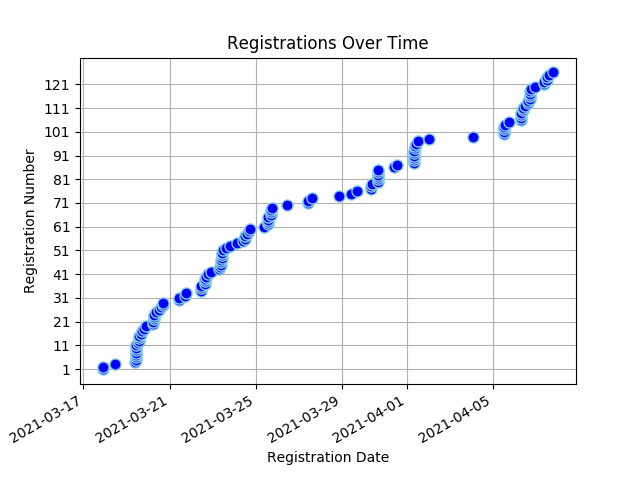
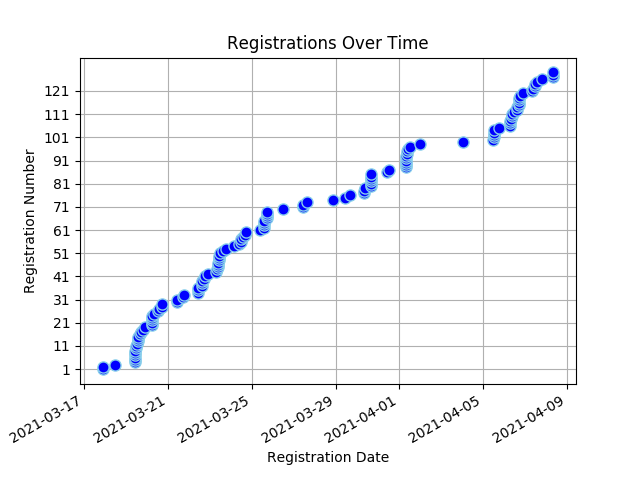
Registree stats backup on Thu 08 Apr 2021 08:45:47 SAST

diff --git a/content/registrees/_index.md b/content/registrees/_index.md
@@ -3,11 +3,11 @@ title: Registration Stats
 draft: false
 ---
 
-<ul><li><strong>Number of Registrees</strong>: 126</li>
+<ul><li><strong>Number of Registrees</strong>: 129</li>
 
-<li><strong>Number of Clubs</strong>: 46</li>
+<li><strong>Number of Clubs</strong>: 47</li>
 
-<li><strong>Club With Most Attendees</strong>: Windhoek (12 registrees)</li>
+<li><strong>Club With Most Attendees</strong>: Windhoek (13 registrees)</li>
 </ul><h2>Registrees</h2>
 
 <script type="text/javascript" src="https://ajax.googleapis.com/ajax/libs/jquery/3.4.1/jquery.min.js"></script>
@@ -33,6 +33,6 @@ draft: false
         </tr>
     </thead>
     <tbody>
-<tr><td>Natalie Abrahams</td><td>Cape Town</td><td>410W</td></tr><tr><td>Linda Anderson</td><td>George</td><td>410W</td></tr><tr><td>Linda Baumgarten</td><td>Sea Point</td><td>410W</td></tr><tr><td>Ulrike Behrens</td><td>Windhoek</td><td>410W</td></tr><tr><td>Valencia Beukes-Williams</td><td>Kuilsriver</td><td>410W</td></tr><tr><td>JOSE BRAGA BORGES</td><td>Malmesbury</td><td>410W</td></tr><tr><td>Paul Brauteseth</td><td>Port Shepstone</td><td>410E</td></tr><tr><td>Nelle Buhrmann</td><td>Sea Point</td><td>410W</td></tr><tr><td>Herman Cadman</td><td>Stellenbosch</td><td>410W</td></tr><tr><td>Linda Ann Cannone</td><td>Fish Hoek</td><td>410W</td></tr><tr><td>Sue Charles</td><td>Tokai</td><td>410W</td></tr><tr><td>Perry Chetty</td><td>East Coast</td><td>410E</td></tr><tr><td>Esme Cornelius</td><td>Kuilsriver</td><td>410W</td></tr><tr><td>Sharon Cottle</td><td>Groote Schuur</td><td>410W</td></tr><tr><td>Peter Daniel</td><td>Gordons Bay</td><td>410W</td></tr><tr><td>Norma Daniel</td><td>Gordons Bay</td><td>410W</td></tr><tr><td>Engela de Kock</td><td>Swellendam</td><td>410W</td></tr><tr><td>Francois de Kock</td><td>Swellendam</td><td>410W</td></tr><tr><td>ANDRE DE VILLIERS</td><td>Malgas</td><td>410W</td></tr><tr><td>Peggy Du Plooy</td><td>Krugersdorp</td><td>410E</td></tr><tr><td>Ivan Du Plooy</td><td>Krugersdorp</td><td>410E</td></tr><tr><td>Desiree du Toit</td><td>Ramsgate</td><td>410E</td></tr><tr><td>Natalie Etridge</td><td>Sedgefield</td><td>410W</td></tr><tr><td>AIDAN Ewers</td><td>Newlands</td><td>410W</td></tr><tr><td>Roger Fahrbach</td><td>Windhoek</td><td>410W</td></tr><tr><td>Beate Fahrbach</td><td>Windhoek</td><td>410W</td></tr><tr><td>Charles Flanagan</td><td>Tokai</td><td>410W</td></tr><tr><td>Jules Flanagan</td><td>Tokai</td><td>410W</td></tr><tr><td>Martin Froise</td><td>Letaba Tzaneen</td><td>410E</td></tr><tr><td>Valerie Graham</td><td>Nelspruit</td><td>410E</td></tr><tr><td>Mike Graham</td><td>Nelspruit</td><td>410E</td></tr><tr><td>Viv Grater</td><td>Sedgefield</td><td>410W</td></tr><tr><td>Mattheus Groves</td><td>Sedgefield</td><td>410W</td></tr><tr><td>Barbara Haywood</td><td>Eden</td><td>410W</td></tr><tr><td>Mike Heathcote</td><td>Port Shepstone</td><td>410E</td></tr><tr><td>Dorothy Hess</td><td>Kuilsriver</td><td>410W</td></tr><tr><td>Wendy Higgins</td><td>Wilro Park</td><td>410E</td></tr><tr><td>Jacqui Hocking</td><td>Midrand</td><td>410E</td></tr><tr><td>Cliff Hocking</td><td>Midrand</td><td>410E</td></tr><tr><td>Liz Houston</td><td>Table View</td><td>410W</td></tr><tr><td>John Houston</td><td>Table View</td><td>410W</td></tr><tr><td>Dawid Jacobs</td><td>Durbanville</td><td>410W</td></tr><tr><td>Jean Jacobs</td><td>Mitchells Plain</td><td>410W</td></tr><tr><td>WOLSLEY Jacobson</td><td>Cape Town</td><td>410W</td></tr><tr><td>Grant Jonathan</td><td>Gordons Bay</td><td>410W</td></tr><tr><td>Jerome Kern</td><td>Groote Schuur</td><td>410W</td></tr><tr><td>Ian King</td><td>Alberton</td><td>410E</td></tr><tr><td>Muya Koloko</td><td>Durbanville</td><td>410W</td></tr><tr><td>Zwaai Kruger</td><td>Sedgefield</td><td>410W</td></tr><tr><td>Bevil Lakay</td><td>Mitchells Plain</td><td>410W</td></tr><tr><td>Paula Lang</td><td>Gordons Bay</td><td>410W</td></tr><tr><td>Jimmy Lang</td><td>Gordons Bay</td><td>410W</td></tr><tr><td>Heather Lee</td><td>Cape Of Good Hope</td><td>410W</td></tr><tr><td>Zarina Luck</td><td>Newcastle</td><td>410E</td></tr><tr><td>Sharon Mangwende</td><td>Cape Town</td><td>410W</td></tr><tr><td>Beaulieu Mare</td><td>Benoni Lakes</td><td>410E</td></tr><tr><td>Jean Masson</td><td>Port Shepstone</td><td>410E</td></tr><tr><td>LANCE MAYTHAM</td><td>Swellendam</td><td>410W</td></tr><tr><td>ROSEMARIE MAYTHAM</td><td>Swellendam</td><td>410W</td></tr><tr><td>David Mccullough</td><td>Pretoria South</td><td>410E</td></tr><tr><td>Alec McKerrow</td><td>Port Alfred</td><td>410E</td></tr><tr><td>Mark Meltzer</td><td>The Wilds</td><td>410E</td></tr><tr><td>Denis Meyer</td><td>Port Shepstone</td><td>410E</td></tr><tr><td>Roy Michas</td><td>Midrand</td><td>410E</td></tr><tr><td>Dawn Michas</td><td>Midrand</td><td>410E</td></tr><tr><td>BERNICE MILLS</td><td>Centurion</td><td>410E</td></tr><tr><td>Patrick Mills</td><td>Centurion</td><td>410E</td></tr><tr><td>Cherie Milosevich</td><td>Milnerton</td><td>410W</td></tr><tr><td>Virginia Mkhize</td><td>Cape Town</td><td>410W</td></tr><tr><td>Frauke E. Moeller</td><td>Windhoek</td><td>410W</td></tr><tr><td>Bernadine Moses</td><td>Cape Town</td><td>410W</td></tr><tr><td>Pieter Nel</td><td>George</td><td>410W</td></tr><tr><td>Tillie Nel</td><td>Eden</td><td>410W</td></tr><tr><td>Mike Newlands</td><td>Port Alfred</td><td>410E</td></tr><tr><td>Mike Newlands</td><td>Port Alfred</td><td>410E</td></tr><tr><td>Debra Olivier</td><td>Sedgefield</td><td>410W</td></tr><tr><td>Sundru Pillay</td><td>Durbanville</td><td>410W</td></tr><tr><td>BRIAN PORTEOUS</td><td>Hibberdene</td><td>410E</td></tr><tr><td>Hugo Reniers</td><td>Nelspruit</td><td>410E</td></tr><tr><td>Mark Rossouw</td><td>Tokai</td><td>410W</td></tr><tr><td>Irene Rugheimer</td><td>Bedfordview</td><td>410E</td></tr><tr><td>Ingrid Russell</td><td>Fish Hoek</td><td>410W</td></tr><tr><td>Sharon Sampie</td><td>Bergvliet</td><td>410W</td></tr><tr><td>Frank Schatz</td><td>Windhoek</td><td>410W</td></tr><tr><td>Vera Schatz</td><td>Windhoek</td><td>410W</td></tr><tr><td>Francis Searle</td><td>Kouga</td><td>410E</td></tr><tr><td>Gloria Searle</td><td>Kouga</td><td>410E</td></tr><tr><td>Ami Sell</td><td>Windhoek</td><td>410W</td></tr><tr><td>Beryl Simpson</td><td>Cape Town</td><td>410W</td></tr><tr><td>Kenlis Sircoulomb</td><td>Windhoek</td><td>410W</td></tr><tr><td>Holger Sircoulomb</td><td>Windhoek</td><td>410W</td></tr><tr><td>Hennie Smeer</td><td>Windhoek</td><td>410W</td></tr><tr><td>Sue Smit</td><td>Centurion</td><td>410E</td></tr><tr><td>Herman Smit</td><td>Swellendam</td><td>410W</td></tr><tr><td>Jeff Smith</td><td>Port Shepstone</td><td>410E</td></tr><tr><td>LYN SNYMAN</td><td>Deep South</td><td>410W</td></tr><tr><td>Diana Sochen</td><td>Sea Point</td><td>410W</td></tr><tr><td>Max Stander</td><td>Port Alfred</td><td>410E</td></tr><tr><td>Ashley Stander</td><td>Krugersdorp</td><td>410E</td></tr><tr><td>Brett Jason Stander</td><td>Krugersdorp</td><td>410E</td></tr><tr><td>RORY stier</td><td>Deep South</td><td>410W</td></tr><tr><td>Patrick Strauss</td><td>Kuilsriver</td><td>410W</td></tr><tr><td>Lauryn Talbot</td><td>Benoni Lakes</td><td>410E</td></tr><tr><td>Diane Townsend</td><td>Benoni Lakes</td><td>410E</td></tr><tr><td>Diane Townsend</td><td>Benoni Lakes</td><td>410E</td></tr><tr><td>Alistair Tuckett</td><td>Roodepoort Clearwater Cyber</td><td>410E</td></tr><tr><td>Carl van Blerk</td><td>Eden</td><td>410W</td></tr><tr><td>HILARY LISE VAN BREDA</td><td>Cape Town</td><td>410W</td></tr><tr><td>Marina Van de Merwe</td><td>Malmesbury</td><td>410W</td></tr><tr><td>Sydney van Heerden</td><td>Wilro Park</td><td>410E</td></tr><tr><td>Sandy van Heerden</td><td>Wilro Park</td><td>410E</td></tr><tr><td>Neville Van Rensburg</td><td>Moorreesburg</td><td>410W</td></tr><tr><td>Johan van Rensburg</td><td>Windhoek</td><td>410W</td></tr><tr><td>Anne van Rensburg</td><td>Windhoek</td><td>410W</td></tr><tr><td>Jeannie van Wulven</td><td>Tygerberg Hills</td><td>410W</td></tr><tr><td>Alan van Wulven</td><td>Tygerberg Hills</td><td>410W</td></tr><tr><td>Deon van Wulven</td><td>Tygerberg Hills</td><td>410W</td></tr><tr><td>Kim van Wyk</td><td>North Durban</td><td>410E</td></tr><tr><td>Edith Van Wyk-Nelson</td><td>Kuilsriver</td><td>410W</td></tr><tr><td>Brian von der Decken</td><td>King William's Town</td><td>410E</td></tr><tr><td>Rinette Von Mollendorf</td><td>Durbanville</td><td>410W</td></tr><tr><td>Rochelle Vorster</td><td>Sedgefield</td><td>410W</td></tr><tr><td>Alastair Warman</td><td>Port Shepstone</td><td>410E</td></tr><tr><td>Allan Watson</td><td>Sea Point</td><td>410W</td></tr><tr><td>Neville Williamson</td><td>Port Alfred</td><td>410E</td></tr><tr><td>Judy Young</td><td>Durbanville</td><td>410W</td></tr>
+<tr><td>Natalie Abrahams</td><td>Cape Town</td><td>410W</td></tr><tr><td>Linda Anderson</td><td>George</td><td>410W</td></tr><tr><td>Linda Baumgarten</td><td>Sea Point</td><td>410W</td></tr><tr><td>Ulrike Behrens</td><td>Windhoek</td><td>410W</td></tr><tr><td>Valencia Beukes-Williams</td><td>Kuilsriver</td><td>410W</td></tr><tr><td>JOSE BRAGA BORGES</td><td>Malmesbury</td><td>410W</td></tr><tr><td>Paul Brauteseth</td><td>Port Shepstone</td><td>410E</td></tr><tr><td>Nelle Buhrmann</td><td>Sea Point</td><td>410W</td></tr><tr><td>Herman Cadman</td><td>Stellenbosch</td><td>410W</td></tr><tr><td>Linda Ann Cannone</td><td>Fish Hoek</td><td>410W</td></tr><tr><td>Sue Charles</td><td>Tokai</td><td>410W</td></tr><tr><td>Perry Chetty</td><td>East Coast</td><td>410E</td></tr><tr><td>Delaney Yeltsin Cloete</td><td>Eden</td><td>410W</td></tr><tr><td>Esme Cornelius</td><td>Kuilsriver</td><td>410W</td></tr><tr><td>Sharon Cottle</td><td>Groote Schuur</td><td>410W</td></tr><tr><td>Peter Daniel</td><td>Gordons Bay</td><td>410W</td></tr><tr><td>Norma Daniel</td><td>Gordons Bay</td><td>410W</td></tr><tr><td>Engela de Kock</td><td>Swellendam</td><td>410W</td></tr><tr><td>Francois de Kock</td><td>Swellendam</td><td>410W</td></tr><tr><td>ANDRE DE VILLIERS</td><td>Malgas</td><td>410W</td></tr><tr><td>Peggy Du Plooy</td><td>Krugersdorp</td><td>410E</td></tr><tr><td>Ivan Du Plooy</td><td>Krugersdorp</td><td>410E</td></tr><tr><td>Desiree du Toit</td><td>Ramsgate</td><td>410E</td></tr><tr><td>Natalie Etridge</td><td>Sedgefield</td><td>410W</td></tr><tr><td>AIDAN Ewers</td><td>Newlands</td><td>410W</td></tr><tr><td>Roger Fahrbach</td><td>Windhoek</td><td>410W</td></tr><tr><td>Beate Fahrbach</td><td>Windhoek</td><td>410W</td></tr><tr><td>Charles Flanagan</td><td>Tokai</td><td>410W</td></tr><tr><td>Jules Flanagan</td><td>Tokai</td><td>410W</td></tr><tr><td>Martin Froise</td><td>Letaba Tzaneen</td><td>410E</td></tr><tr><td>Valerie Graham</td><td>Nelspruit</td><td>410E</td></tr><tr><td>Mike Graham</td><td>Nelspruit</td><td>410E</td></tr><tr><td>Viv Grater</td><td>Sedgefield</td><td>410W</td></tr><tr><td>Mattheus Groves</td><td>Sedgefield</td><td>410W</td></tr><tr><td>Barbara Haywood</td><td>Eden</td><td>410W</td></tr><tr><td>Mike Heathcote</td><td>Port Shepstone</td><td>410E</td></tr><tr><td>Dorothy Hess</td><td>Kuilsriver</td><td>410W</td></tr><tr><td>Wendy Higgins</td><td>Wilro Park</td><td>410E</td></tr><tr><td>Jacqui Hocking</td><td>Midrand</td><td>410E</td></tr><tr><td>Cliff Hocking</td><td>Midrand</td><td>410E</td></tr><tr><td>Liz Houston</td><td>Table View</td><td>410W</td></tr><tr><td>John Houston</td><td>Table View</td><td>410W</td></tr><tr><td>Alna Jackson</td><td>Pretoria Jakaranda</td><td>410E</td></tr><tr><td>Dawid Jacobs</td><td>Durbanville</td><td>410W</td></tr><tr><td>Jean Jacobs</td><td>Mitchells Plain</td><td>410W</td></tr><tr><td>WOLSLEY Jacobson</td><td>Cape Town</td><td>410W</td></tr><tr><td>Grant Jonathan</td><td>Gordons Bay</td><td>410W</td></tr><tr><td>Jerome Kern</td><td>Groote Schuur</td><td>410W</td></tr><tr><td>Ian King</td><td>Alberton</td><td>410E</td></tr><tr><td>Muya Koloko</td><td>Durbanville</td><td>410W</td></tr><tr><td>Zwaai Kruger</td><td>Sedgefield</td><td>410W</td></tr><tr><td>Bevil Lakay</td><td>Mitchells Plain</td><td>410W</td></tr><tr><td>Paula Lang</td><td>Gordons Bay</td><td>410W</td></tr><tr><td>Jimmy Lang</td><td>Gordons Bay</td><td>410W</td></tr><tr><td>Heather Lee</td><td>Cape Of Good Hope</td><td>410W</td></tr><tr><td>Zarina Luck</td><td>Newcastle</td><td>410E</td></tr><tr><td>Sharon Mangwende</td><td>Cape Town</td><td>410W</td></tr><tr><td>Beaulieu Mare</td><td>Benoni Lakes</td><td>410E</td></tr><tr><td>Jean Masson</td><td>Port Shepstone</td><td>410E</td></tr><tr><td>LANCE MAYTHAM</td><td>Swellendam</td><td>410W</td></tr><tr><td>ROSEMARIE MAYTHAM</td><td>Swellendam</td><td>410W</td></tr><tr><td>David Mccullough</td><td>Pretoria South</td><td>410E</td></tr><tr><td>Alec McKerrow</td><td>Port Alfred</td><td>410E</td></tr><tr><td>Mark Meltzer</td><td>The Wilds</td><td>410E</td></tr><tr><td>Denis Meyer</td><td>Port Shepstone</td><td>410E</td></tr><tr><td>Roy Michas</td><td>Midrand</td><td>410E</td></tr><tr><td>Dawn Michas</td><td>Midrand</td><td>410E</td></tr><tr><td>BERNICE MILLS</td><td>Centurion</td><td>410E</td></tr><tr><td>Patrick Mills</td><td>Centurion</td><td>410E</td></tr><tr><td>Cherie Milosevich</td><td>Milnerton</td><td>410W</td></tr><tr><td>Virginia Mkhize</td><td>Cape Town</td><td>410W</td></tr><tr><td>Frauke E. Moeller</td><td>Windhoek</td><td>410W</td></tr><tr><td>Bernadine Moses</td><td>Cape Town</td><td>410W</td></tr><tr><td>Pieter Nel</td><td>George</td><td>410W</td></tr><tr><td>Tillie Nel</td><td>Eden</td><td>410W</td></tr><tr><td>Mike Newlands</td><td>Port Alfred</td><td>410E</td></tr><tr><td>Mike Newlands</td><td>Port Alfred</td><td>410E</td></tr><tr><td>Debra Olivier</td><td>Sedgefield</td><td>410W</td></tr><tr><td>Sundru Pillay</td><td>Durbanville</td><td>410W</td></tr><tr><td>BRIAN PORTEOUS</td><td>Hibberdene</td><td>410E</td></tr><tr><td>Hugo Reniers</td><td>Nelspruit</td><td>410E</td></tr><tr><td>Mark Rossouw</td><td>Tokai</td><td>410W</td></tr><tr><td>Irene Rugheimer</td><td>Bedfordview</td><td>410E</td></tr><tr><td>Ingrid Russell</td><td>Fish Hoek</td><td>410W</td></tr><tr><td>Sharon Sampie</td><td>Bergvliet</td><td>410W</td></tr><tr><td>Frank Schatz</td><td>Windhoek</td><td>410W</td></tr><tr><td>Vera Schatz</td><td>Windhoek</td><td>410W</td></tr><tr><td>Vera Schatz</td><td>Windhoek</td><td>410W</td></tr><tr><td>Francis Searle</td><td>Kouga</td><td>410E</td></tr><tr><td>Gloria Searle</td><td>Kouga</td><td>410E</td></tr><tr><td>Ami Sell</td><td>Windhoek</td><td>410W</td></tr><tr><td>Beryl Simpson</td><td>Cape Town</td><td>410W</td></tr><tr><td>Kenlis Sircoulomb</td><td>Windhoek</td><td>410W</td></tr><tr><td>Holger Sircoulomb</td><td>Windhoek</td><td>410W</td></tr><tr><td>Hennie Smeer</td><td>Windhoek</td><td>410W</td></tr><tr><td>Sue Smit</td><td>Centurion</td><td>410E</td></tr><tr><td>Herman Smit</td><td>Swellendam</td><td>410W</td></tr><tr><td>Jeff Smith</td><td>Port Shepstone</td><td>410E</td></tr><tr><td>LYN SNYMAN</td><td>Deep South</td><td>410W</td></tr><tr><td>Diana Sochen</td><td>Sea Point</td><td>410W</td></tr><tr><td>Max Stander</td><td>Port Alfred</td><td>410E</td></tr><tr><td>Ashley Stander</td><td>Krugersdorp</td><td>410E</td></tr><tr><td>Brett Jason Stander</td><td>Krugersdorp</td><td>410E</td></tr><tr><td>RORY stier</td><td>Deep South</td><td>410W</td></tr><tr><td>Patrick Strauss</td><td>Kuilsriver</td><td>410W</td></tr><tr><td>Lauryn Talbot</td><td>Benoni Lakes</td><td>410E</td></tr><tr><td>Diane Townsend</td><td>Benoni Lakes</td><td>410E</td></tr><tr><td>Diane Townsend</td><td>Benoni Lakes</td><td>410E</td></tr><tr><td>Alistair Tuckett</td><td>Roodepoort Clearwater Cyber</td><td>410E</td></tr><tr><td>Carl van Blerk</td><td>Eden</td><td>410W</td></tr><tr><td>HILARY LISE VAN BREDA</td><td>Cape Town</td><td>410W</td></tr><tr><td>Marina Van de Merwe</td><td>Malmesbury</td><td>410W</td></tr><tr><td>Sydney van Heerden</td><td>Wilro Park</td><td>410E</td></tr><tr><td>Sandy van Heerden</td><td>Wilro Park</td><td>410E</td></tr><tr><td>Neville Van Rensburg</td><td>Moorreesburg</td><td>410W</td></tr><tr><td>Johan van Rensburg</td><td>Windhoek</td><td>410W</td></tr><tr><td>Anne van Rensburg</td><td>Windhoek</td><td>410W</td></tr><tr><td>Jeannie van Wulven</td><td>Tygerberg Hills</td><td>410W</td></tr><tr><td>Alan van Wulven</td><td>Tygerberg Hills</td><td>410W</td></tr><tr><td>Deon van Wulven</td><td>Tygerberg Hills</td><td>410W</td></tr><tr><td>Kim van Wyk</td><td>North Durban</td><td>410E</td></tr><tr><td>Edith Van Wyk-Nelson</td><td>Kuilsriver</td><td>410W</td></tr><tr><td>Brian von der Decken</td><td>King William's Town</td><td>410E</td></tr><tr><td>Rinette Von Mollendorf</td><td>Durbanville</td><td>410W</td></tr><tr><td>Rochelle Vorster</td><td>Sedgefield</td><td>410W</td></tr><tr><td>Alastair Warman</td><td>Port Shepstone</td><td>410E</td></tr><tr><td>Allan Watson</td><td>Sea Point</td><td>410W</td></tr><tr><td>Neville Williamson</td><td>Port Alfred</td><td>410E</td></tr><tr><td>Judy Young</td><td>Durbanville</td><td>410W</td></tr>
 </tbody>
 </table>

diff --git a/content/full_stats/_index.md b/content/full_stats/_index.md
@@ -16,17 +16,17 @@ draft: false
 </head>
 <body>
 <h1 style="color: #000000;">Full Registration Stats</h1>
-<ul><li><strong>Number of Registrees</strong>: 126</li>
-<li><strong>Number of Clubs</strong>: 46</li>
-<li><strong>Club With Most Attendees</strong>: Windhoek (12 registrees)</li>
+<ul><li><strong>Number of Registrees</strong>: 129</li>
+<li><strong>Number of Clubs</strong>: 47</li>
+<li><strong>Club With Most Attendees</strong>: Windhoek (13 registrees)</li>
 
-<li><strong>Number of District 410W Convention Attendees</strong>: 78</li>
-<li><strong>Number of District 410W Convention Voters</strong>: 34</li>
-<li><strong>Number of District 410E Convention Attendees</strong>: 45</li>
-<li><strong>Number of District 410E Convention Voters</strong>: 26</li>
+<li><strong>Number of District 410W Convention Attendees</strong>: 80</li>
+<li><strong>Number of District 410W Convention Voters</strong>: 36</li>
+<li><strong>Number of District 410E Convention Attendees</strong>: 46</li>
+<li><strong>Number of District 410E Convention Voters</strong>: 27</li>
 
-<li><strong>Number of MD410 Convention Attendees</strong>: 107</li>
-<li><strong>Number of MD410 Convention Voters</strong>: 55</li>
+<li><strong>Number of MD410 Convention Attendees</strong>: 110</li>
+<li><strong>Number of MD410 Convention Voters</strong>: 58</li>
 
 </ul>
 <h2>Registrees</h2>
@@ -187,6 +187,17 @@ draft: false
 <td>East Coast</td>
 <td>410E</td>
 <td>No</td>
+<td style="background-color: lightgreen">Yes</td>
+<td style="background-color: lightgreen">Yes</td>
+<td>No</td>
+</tr>
+
+    
+<td>136</td>
+<td>Delaney Yeltsin Cloete</td>
+<td>Eden</td>
+<td>410W</td>
+<td style="background-color: lightgreen">Yes</td>
 <td style="background-color: lightgreen">Yes</td>
 <td style="background-color: lightgreen">Yes</td>
 <td>No</td>
@@ -506,6 +517,17 @@ draft: false
 <td>Table View</td>
 <td>410W</td>
 <td>No</td>
+<td style="background-color: lightgreen">Yes</td>
+<td style="background-color: lightgreen">Yes</td>
+<td>No</td>
+</tr>
+
+    
+<td>135</td>
+<td>Alna Jackson</td>
+<td>Pretoria Jakaranda</td>
+<td>410E</td>
+<td style="background-color: lightgreen">Yes</td>
 <td style="background-color: lightgreen">Yes</td>
 <td style="background-color: lightgreen">Yes</td>
 <td>No</td>
@@ -986,6 +1008,17 @@ draft: false
 
     
 <td>101</td>
+<td>Vera Schatz</td>
+<td>Windhoek</td>
+<td>410W</td>
+<td style="background-color: lightgreen">Yes</td>
+<td style="background-color: lightgreen">Yes</td>
+<td style="background-color: lightgreen">Yes</td>
+<td>No</td>
+</tr>
+
+    
+<td>134</td>
 <td>Vera Schatz</td>
 <td>Windhoek</td>
 <td>410W</td>
